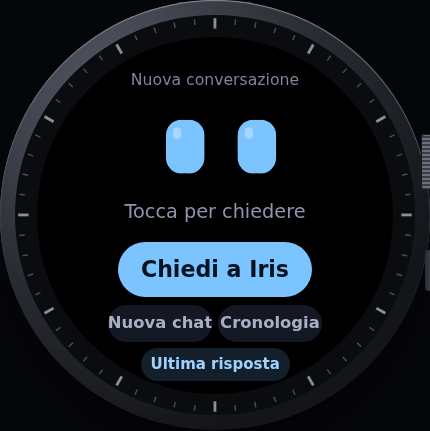
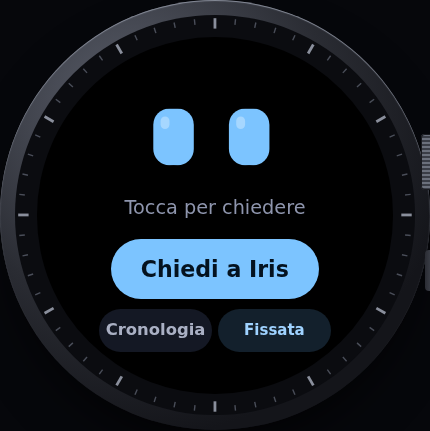
Prima schermata con tre tasti: Chiedi a Iris (chat nuova), Cronologia, chat fissata; demo, README e guida aggiornati
Claude-Session: https://claude.ai/code/session_01Nwax4AJoh9j8WWGX8eKyWD

diff --git a/design/prototipo.html b/design/prototipo.html
@@ -103,15 +103,14 @@ kbd{font:500 11px var(--mono);background:var(--raise);border:1px solid var(--lin
 .toast{position:absolute;bottom:22cqw;left:50%;transform:translateX(-50%);padding:2.4cqw 4.6cqw;border-radius:99cqw;background:#13202c;color:#9fd2ff;font:500 4.2cqw/1 var(--body);white-space:nowrap}
 @keyframes rise{from{transform:translateY(8cqw);opacity:0}}
 /* schermate della 0.1.2 (coordinate dell'app vera: 480 px = 100cqw) */
-.eyes.mid{top:29.6%;width:128cqw}
+.eyes.mid{top:27.5%;width:135cqw}
 .ttl{position:absolute;top:8.3cqw;left:22cqw;right:22cqw;height:7.5cqw;display:flex;align-items:center;justify-content:center;font:500 4.4cqw/1 var(--body);color:#7d849c;white-space:nowrap;overflow:hidden;text-overflow:ellipsis}
-.st{position:absolute;top:42.5cqw;left:12cqw;right:12cqw;height:13.3cqw;display:flex;align-items:center;justify-content:center;text-align:center;font:500 5.4cqw/1.25 var(--body);color:#8e95ad}
+.st{position:absolute;top:41.2cqw;left:12cqw;right:12cqw;height:13.3cqw;display:flex;align-items:center;justify-content:center;text-align:center;font:500 5.4cqw/1.25 var(--body);color:#8e95ad}
 .zb{position:absolute;border:0;border-radius:99cqw;cursor:pointer;font:600 4.6cqw/1.1 var(--body);background:#141824;color:#aab0c4;display:flex;align-items:center;justify-content:center;text-align:center;padding:0 2cqw;white-space:nowrap;overflow:hidden;text-overflow:ellipsis}
 .zb:active{filter:brightness(1.3)}
-.zb.big{left:22.9cqw;top:57.5cqw;width:54.2cqw;height:15.4cqw;background:var(--eye);color:#04121f;font-size:6.2cqw}
-.zb.l{left:20cqw;top:75cqw;width:29.2cqw;height:10.4cqw}
-.zb.r{left:50.8cqw;top:75cqw;width:29.2cqw;height:10.4cqw}
-.zb.pin{left:29.2cqw;top:87.1cqw;width:41.7cqw;height:9.2cqw;background:#13202c;color:#9fd2ff;font-size:4.2cqw}
+.zb.big{left:20.8cqw;top:56.7cqw;width:58.3cqw;height:16.7cqw;background:var(--eye);color:#04121f;font-size:6.2cqw}
+.zb.l{left:17.5cqw;top:76.2cqw;width:31.7cqw;height:12.1cqw}
+.zb.r{left:50.8cqw;top:76.2cqw;width:31.7cqw;height:12.1cqw;background:#13202c;color:#9fd2ff;font-size:4.2cqw}
 .kb{position:absolute;inset:0;background:#000;display:flex;flex-direction:column;align-items:center;justify-content:center;gap:4cqw}
 .kb .micb{width:24cqw;height:24cqw;border-radius:50%;background:#13263a;color:var(--eye);display:grid;place-items:center;animation:pulse 1.2s ease-in-out infinite}
 .kb .micb svg{width:11cqw;height:11cqw}
@@ -191,9 +190,9 @@ kbd{font:500 11px var(--mono);background:var(--raise);border:1px solid var(--lin
       <div class="card">
         <h3>Cosa provare (versione 0.1.2)</h3>
         <ol class="steps">
-          <li><b>Una domanda:</b> premi <b>Chiedi a Iris</b>, si apre la dettatura dell'orologio, poi ✓. Gli occhi mostrano cosa fa Iris; la risposta si legge con la corona, con gli occhi piccoli in alto.</li>
+          <li><b>Chiedi a Iris</b> apre una chat nuova con la dettatura dell'orologio, poi ✓. Gli occhi mostrano cosa fa Iris; la risposta si legge con la corona, con gli occhi piccoli in alto.</li>
           <li><b>Continua</b> (in fondo alla risposta) riapre la dettatura nella stessa conversazione; <b>Nuova chat</b> ne apre una nuova.</li>
-          <li><b>Cronologia:</b> tocca una conversazione per continuarla, oppure <b>Fissa</b> per metterla nel tasto in basso della prima schermata.</li>
+          <li><b>Cronologia:</b> tocca una conversazione per continuarla, oppure <b>Fissa</b> per metterla nel tasto accanto (una sola fissata).</li>
           <li>Scegli qui sotto la prossima domanda da "dettare".</li>
         </ol>
         <div class="btns" id="qs"></div>
@@ -1020,14 +1019,13 @@ kbd{font:500 11px var(--mono);background:var(--raise);border:1px solid var(--lin
     if (sideEyes && p !== "reply") sideEyes = null;
     if (p === "home") {
       showEyes(true, data && data.state || "idle");
-      ui.innerHTML = `<div class="ttl">${esc(curTitle)}</div><div class="st" id="st">${data && data.msg || "Tocca per chiedere"}</div>
-        <button class="zb big" id="ask">Chiedi a Iris</button><button class="zb l" id="new">Nuova chat</button><button class="zb r" id="hist">Cronologia</button>
-        <button class="zb pin" id="pin">${esc(short(pinned ? pinned : "Ultima risposta", 17))}</button>`;
+      ui.innerHTML = `<div class="st" id="st">${data && data.msg || "Tocca per chiedere"}</div>
+        <button class="zb big" id="ask">Chiedi a Iris</button><button class="zb l" id="hist">Cronologia</button>
+        <button class="zb r" id="pin">${esc(short(pinned ? pinned : "Fissata", 12))}</button>`;
       if (data && data.color) $("st").style.color = data.color;
-      btn("ask", dettatura);
-      btn("new", () => { curTitle = "Nuova conversazione"; trace("p", "nuova conversazione (si crea alla prima domanda)"); dettatura(); });
+      btn("ask", () => { curTitle = "Nuova conversazione"; trace("p", "chat nuova (si crea su Hermes alla prima domanda)"); dettatura(); });
       btn("hist", () => go("sessions"));
-      btn("pin", () => { if (pinned) { curTitle = pinned; trace("p", `riprendo la chat fissata «${pinned}»`); dettatura(); } else if (last) go("reply", { text: md(last.answer), q: last }); else { $("st").textContent = "Ancora nessuna risposta da rileggere"; } });
+      btn("pin", () => { if (pinned) { curTitle = pinned; trace("p", `riprendo la chat fissata «${pinned}»`); dettatura(); } else { $("st").textContent = "Nessuna chat fissata: scegline una in Cronologia → Fissa"; } });
     }
     if (p === "kb") {
       showEyes(false);
@@ -1036,8 +1034,8 @@ kbd{font:500 11px var(--mono);background:var(--raise);border:1px solid var(--lin
       later(900, function type() { if (page !== "kb") return; n = Math.min(q.length, n + 2); $("said").textContent = q.slice(0, n); if (n < q.length) later(45, type); else { $("hk").textContent = "Tocca ✓ per inviare"; $("okk").style.visibility = "visible"; } });
       btn("okk", () => { cur = Object.assign({}, QS[qi]); trace("w", `dettatura: «${cur.q}»`); ask(); });
     }
-    if (p === "think") { showEyes(true, "thinking"); ui.innerHTML = `<div class="ttl">${esc(curTitle)}</div><div class="st" style="color:#a78bfa">Sto pensando…</div>`; }
-    if (p === "tool") { showEyes(true, "tool"); ui.innerHTML = `<div class="ttl">${esc(curTitle)}</div><div class="st" style="color:#f59e0b">Uso: ${esc(cur.tool)}</div>`; }
+    if (p === "think") { showEyes(true, "thinking"); ui.innerHTML = `<div class="st" style="color:#a78bfa">Sto pensando…</div>`; }
+    if (p === "tool") { showEyes(true, "tool"); ui.innerHTML = `<div class="st" style="color:#f59e0b">Uso: ${esc(cur.tool)}</div>`; }
     if (p === "reply") {
       showEyes(false);
       const q = (data && data.q) || cur;
@@ -1063,7 +1061,7 @@ kbd{font:500 11px var(--mono);background:var(--raise);border:1px solid var(--lin
       ui.querySelectorAll("[data-f]").forEach((b) => (b.onclick = (e) => { e.stopPropagation(); const s = all[+b.dataset.f]; pinned = pinned === s.title ? null : s.title; trace("p", pinned ? `fissata «${s.title}» nella prima schermata` : "tolta la chat fissata"); const y = scrollY; go("sessions"); scrollY = y; $("txt").style.transform = `translateY(${-scrollY}px)`; }));
       scrollY = 0;
     }
-    if (p === "error") { showEyes(true, "sleep"); ui.innerHTML = `<div class="ttl">${esc(curTitle)}</div><div class="st" style="color:#f87171">Prova: la rete non risponde. Il tunnel di casa è acceso?</div><button class="zb big" id="ask">Chiedi a Iris</button>`; btn("ask", dettatura); }
+    if (p === "error") { showEyes(true, "sleep"); ui.innerHTML = `<div class="st" style="color:#f87171">Prova: la rete non risponde. Il tunnel di casa è acceso?</div><button class="zb big" id="ask">Chiedi a Iris</button>`; btn("ask", () => { curTitle = "Nuova conversazione"; dettatura(); }); }
   }
   function dettatura() { clear(); trace("w", "si apre la tastiera di sistema con il microfono"); go("kb"); }
 

diff --git a/design/prototipo-src.html b/design/prototipo-src.html
@@ -103,15 +103,14 @@ kbd{font:500 11px var(--mono);background:var(--raise);border:1px solid var(--lin
 .toast{position:absolute;bottom:22cqw;left:50%;transform:translateX(-50%);padding:2.4cqw 4.6cqw;border-radius:99cqw;background:#13202c;color:#9fd2ff;font:500 4.2cqw/1 var(--body);white-space:nowrap}
 @keyframes rise{from{transform:translateY(8cqw);opacity:0}}
 /* schermate della 0.1.2 (coordinate dell'app vera: 480 px = 100cqw) */
-.eyes.mid{top:29.6%;width:128cqw}
+.eyes.mid{top:27.5%;width:135cqw}
 .ttl{position:absolute;top:8.3cqw;left:22cqw;right:22cqw;height:7.5cqw;display:flex;align-items:center;justify-content:center;font:500 4.4cqw/1 var(--body);color:#7d849c;white-space:nowrap;overflow:hidden;text-overflow:ellipsis}
-.st{position:absolute;top:42.5cqw;left:12cqw;right:12cqw;height:13.3cqw;display:flex;align-items:center;justify-content:center;text-align:center;font:500 5.4cqw/1.25 var(--body);color:#8e95ad}
+.st{position:absolute;top:41.2cqw;left:12cqw;right:12cqw;height:13.3cqw;display:flex;align-items:center;justify-content:center;text-align:center;font:500 5.4cqw/1.25 var(--body);color:#8e95ad}
 .zb{position:absolute;border:0;border-radius:99cqw;cursor:pointer;font:600 4.6cqw/1.1 var(--body);background:#141824;color:#aab0c4;display:flex;align-items:center;justify-content:center;text-align:center;padding:0 2cqw;white-space:nowrap;overflow:hidden;text-overflow:ellipsis}
 .zb:active{filter:brightness(1.3)}
-.zb.big{left:22.9cqw;top:57.5cqw;width:54.2cqw;height:15.4cqw;background:var(--eye);color:#04121f;font-size:6.2cqw}
-.zb.l{left:20cqw;top:75cqw;width:29.2cqw;height:10.4cqw}
-.zb.r{left:50.8cqw;top:75cqw;width:29.2cqw;height:10.4cqw}
-.zb.pin{left:29.2cqw;top:87.1cqw;width:41.7cqw;height:9.2cqw;background:#13202c;color:#9fd2ff;font-size:4.2cqw}
+.zb.big{left:20.8cqw;top:56.7cqw;width:58.3cqw;height:16.7cqw;background:var(--eye);color:#04121f;font-size:6.2cqw}
+.zb.l{left:17.5cqw;top:76.2cqw;width:31.7cqw;height:12.1cqw}
+.zb.r{left:50.8cqw;top:76.2cqw;width:31.7cqw;height:12.1cqw;background:#13202c;color:#9fd2ff;font-size:4.2cqw}
 .kb{position:absolute;inset:0;background:#000;display:flex;flex-direction:column;align-items:center;justify-content:center;gap:4cqw}
 .kb .micb{width:24cqw;height:24cqw;border-radius:50%;background:#13263a;color:var(--eye);display:grid;place-items:center;animation:pulse 1.2s ease-in-out infinite}
 .kb .micb svg{width:11cqw;height:11cqw}
@@ -191,9 +190,9 @@ kbd{font:500 11px var(--mono);background:var(--raise);border:1px solid var(--lin
       <div class="card">
         <h3>Cosa provare (versione 0.1.2)</h3>
         <ol class="steps">
-          <li><b>Una domanda:</b> premi <b>Chiedi a Iris</b>, si apre la dettatura dell'orologio, poi ✓. Gli occhi mostrano cosa fa Iris; la risposta si legge con la corona, con gli occhi piccoli in alto.</li>
+          <li><b>Chiedi a Iris</b> apre una chat nuova con la dettatura dell'orologio, poi ✓. Gli occhi mostrano cosa fa Iris; la risposta si legge con la corona, con gli occhi piccoli in alto.</li>
           <li><b>Continua</b> (in fondo alla risposta) riapre la dettatura nella stessa conversazione; <b>Nuova chat</b> ne apre una nuova.</li>
-          <li><b>Cronologia:</b> tocca una conversazione per continuarla, oppure <b>Fissa</b> per metterla nel tasto in basso della prima schermata.</li>
+          <li><b>Cronologia:</b> tocca una conversazione per continuarla, oppure <b>Fissa</b> per metterla nel tasto accanto (una sola fissata).</li>
           <li>Scegli qui sotto la prossima domanda da "dettare".</li>
         </ol>
         <div class="btns" id="qs"></div>
@@ -271,14 +270,13 @@ kbd{font:500 11px var(--mono);background:var(--raise);border:1px solid var(--lin
     if (sideEyes && p !== "reply") sideEyes = null;
     if (p === "home") {
       showEyes(true, data && data.state || "idle");
-      ui.innerHTML = `<div class="ttl">${esc(curTitle)}</div><div class="st" id="st">${data && data.msg || "Tocca per chiedere"}</div>
-        <button class="zb big" id="ask">Chiedi a Iris</button><button class="zb l" id="new">Nuova chat</button><button class="zb r" id="hist">Cronologia</button>
-        <button class="zb pin" id="pin">${esc(short(pinned ? pinned : "Ultima risposta", 17))}</button>`;
+      ui.innerHTML = `<div class="st" id="st">${data && data.msg || "Tocca per chiedere"}</div>
+        <button class="zb big" id="ask">Chiedi a Iris</button><button class="zb l" id="hist">Cronologia</button>
+        <button class="zb r" id="pin">${esc(short(pinned ? pinned : "Fissata", 12))}</button>`;
       if (data && data.color) $("st").style.color = data.color;
-      btn("ask", dettatura);
-      btn("new", () => { curTitle = "Nuova conversazione"; trace("p", "nuova conversazione (si crea alla prima domanda)"); dettatura(); });
+      btn("ask", () => { curTitle = "Nuova conversazione"; trace("p", "chat nuova (si crea su Hermes alla prima domanda)"); dettatura(); });
       btn("hist", () => go("sessions"));
-      btn("pin", () => { if (pinned) { curTitle = pinned; trace("p", `riprendo la chat fissata «${pinned}»`); dettatura(); } else if (last) go("reply", { text: md(last.answer), q: last }); else { $("st").textContent = "Ancora nessuna risposta da rileggere"; } });
+      btn("pin", () => { if (pinned) { curTitle = pinned; trace("p", `riprendo la chat fissata «${pinned}»`); dettatura(); } else { $("st").textContent = "Nessuna chat fissata: scegline una in Cronologia → Fissa"; } });
     }
     if (p === "kb") {
       showEyes(false);
@@ -287,8 +285,8 @@ kbd{font:500 11px var(--mono);background:var(--raise);border:1px solid var(--lin
       later(900, function type() { if (page !== "kb") return; n = Math.min(q.length, n + 2); $("said").textContent = q.slice(0, n); if (n < q.length) later(45, type); else { $("hk").textContent = "Tocca ✓ per inviare"; $("okk").style.visibility = "visible"; } });
       btn("okk", () => { cur = Object.assign({}, QS[qi]); trace("w", `dettatura: «${cur.q}»`); ask(); });
     }
-    if (p === "think") { showEyes(true, "thinking"); ui.innerHTML = `<div class="ttl">${esc(curTitle)}</div><div class="st" style="color:#a78bfa">Sto pensando…</div>`; }
-    if (p === "tool") { showEyes(true, "tool"); ui.innerHTML = `<div class="ttl">${esc(curTitle)}</div><div class="st" style="color:#f59e0b">Uso: ${esc(cur.tool)}</div>`; }
+    if (p === "think") { showEyes(true, "thinking"); ui.innerHTML = `<div class="st" style="color:#a78bfa">Sto pensando…</div>`; }
+    if (p === "tool") { showEyes(true, "tool"); ui.innerHTML = `<div class="st" style="color:#f59e0b">Uso: ${esc(cur.tool)}</div>`; }
     if (p === "reply") {
       showEyes(false);
       const q = (data && data.q) || cur;
@@ -314,7 +312,7 @@ kbd{font:500 11px var(--mono);background:var(--raise);border:1px solid var(--lin
       ui.querySelectorAll("[data-f]").forEach((b) => (b.onclick = (e) => { e.stopPropagation(); const s = all[+b.dataset.f]; pinned = pinned === s.title ? null : s.title; trace("p", pinned ? `fissata «${s.title}» nella prima schermata` : "tolta la chat fissata"); const y = scrollY; go("sessions"); scrollY = y; $("txt").style.transform = `translateY(${-scrollY}px)`; }));
       scrollY = 0;
     }
-    if (p === "error") { showEyes(true, "sleep"); ui.innerHTML = `<div class="ttl">${esc(curTitle)}</div><div class="st" style="color:#f87171">Prova: la rete non risponde. Il tunnel di casa è acceso?</div><button class="zb big" id="ask">Chiedi a Iris</button>`; btn("ask", dettatura); }
+    if (p === "error") { showEyes(true, "sleep"); ui.innerHTML = `<div class="st" style="color:#f87171">Prova: la rete non risponde. Il tunnel di casa è acceso?</div><button class="zb big" id="ask">Chiedi a Iris</button>`; btn("ask", () => { curTitle = "Nuova conversazione"; dettatura(); }); }
   }
   function dettatura() { clear(); trace("w", "si apre la tastiera di sistema con il microfono"); go("kb"); }
 

diff --git a/page/index.page.js b/page/index.page.js
@@ -1,5 +1,8 @@
-// Pagina principale: la conversazione in corso in alto, gli occhi, cosa sta facendo Iris e il pulsante per
-// fare una domanda (dettata o scritta con la tastiera di sistema). Sotto: le conversazioni e l'ultima risposta.
+// Pagina principale: gli occhi, cosa sta facendo Iris e tre tasti:
+//   Chiedi a Iris  → chat nuova, con la tastiera di sistema (dettatura o lettere)
+//   Cronologia     → le ultime conversazioni, per continuarne una
+//   chat fissata   → la conversazione fissata dalla cronologia, per riprenderla al volo
+// Per continuare la chat appena fatta c'è "Continua" in fondo alla risposta.
 import * as hmUI from '@zos/ui'
 import { px } from '@zos/utils'
 import { push } from '@zos/router'
@@ -19,74 +22,65 @@ Page(
       this.state.apri = params === 'tastiera'
     },
 
+
     build() {
       setWakeUpRelaunch({ relaunch: true }) // a schermo riacceso si torna qui, non sul quadrante
-      this.state.titolo = hmUI.createWidget(hmUI.widget.TEXT, {
-        x: px(110), y: px(40), w: px(260), h: px(36), text: '', text_size: px(21), color: 0x7d849c,
-        align_h: hmUI.align.CENTER_H, align_v: hmUI.align.CENTER_V, text_style: hmUI.text_style.ELLIPSIS,
-      })
-      this.state.occhi = creaOcchi({ cx: C, cy: px(142), scala: 0.85 })
+      this.state.occhi = creaOcchi({ cx: C, cy: px(132), scala: 0.9 })
       this.state.testo = hmUI.createWidget(hmUI.widget.TEXT, {
-        x: px(60), y: px(204), w: px(360), h: px(64),
+        x: px(60), y: px(198), w: px(360), h: px(64),
         text: 'Tocca per chiedere', text_size: px(26), color: 0x8e95ad,
         align_h: hmUI.align.CENTER_H, align_v: hmUI.align.CENTER_V, text_style: hmUI.text_style.WRAP,
       })
       hmUI.createWidget(hmUI.widget.BUTTON, {
-        x: px(110), y: px(276), w: px(260), h: px(74), radius: px(37),
+        x: px(100), y: px(272), w: px(280), h: px(80), radius: px(40),
         normal_color: 0x7cc4ff, press_color: 0x5aa6e6, color: 0x04121f, text_size: px(30),
-        text: 'Chiedi a Iris', click_func: () => this.chiedi(),
+        text: 'Chiedi a Iris', click_func: () => this.nuovaChat(),
       })
       hmUI.createWidget(hmUI.widget.BUTTON, {
-        x: px(96), y: px(360), w: px(140), h: px(50), radius: px(25),
-        normal_color: 0x141824, press_color: 0x1f2433, color: 0xaab0c4, text_size: px(22),
-        text: 'Nuova chat', click_func: () => this.nuovaChat(),
-      })
-      hmUI.createWidget(hmUI.widget.BUTTON, {
-        x: px(244), y: px(360), w: px(140), h: px(50), radius: px(25),
+        x: px(84), y: px(366), w: px(152), h: px(58), radius: px(29),
         normal_color: 0x141824, press_color: 0x1f2433, color: 0xaab0c4, text_size: px(22),
         text: 'Cronologia', click_func: () => !this.state.busy && push({ url: 'page/sessioni.page' }),
       })
-      // la chat fissata (dalla cronologia) per riprenderla al volo; se non ce n'è una, l'ultima risposta
       this.state.fissa = hmUI.createWidget(hmUI.widget.BUTTON, {
-        x: px(140), y: px(418), w: px(200), h: px(44), radius: px(22),
+        x: px(244), y: px(366), w: px(152), h: px(58), radius: px(29),
         normal_color: 0x13202c, press_color: 0x1b3550, color: 0x9fd2ff, text_size: px(20),
-        text: 'Ultima risposta', click_func: () => this.tastoFissato(),
+        text: 'Fissata', click_func: () => this.tastoFissato(),
       })
       this.aggiornaTitolo()
-      if (this.state.apri) setTimeout(() => this.chiedi(), 300)
+      if (this.state.apri) setTimeout(() => this.tastiera(), 300)
     },
 
     // tornando qui da un'altra pagina: titolo aggiornato, e se si è scelto "Continua" / "Nuova chat" si riapre la tastiera
     onResume() {
       const g = dati()
-      if (g.nuovaChat) { g.nuovaChat = false; this.request({ method: 'new' }).finally(() => { this.aggiornaTitolo(); this.chiedi() }); return }
       this.aggiornaTitolo()
-      if (g.continua) { g.continua = false; setTimeout(() => this.chiedi(), 300) }
+      if (g.nuovaChat) { g.nuovaChat = false; this.nuovaChat() }
+      else if (g.continua) { g.continua = false; setTimeout(() => this.tastiera(), 300) }
     },
 
     aggiornaTitolo() {
       this.request({ method: 'current' }, { timeout: 20000 })
         .then((c) => {
-          if (!this.state.titolo) return
-          this.state.titolo.setProperty(hmUI.prop.MORE, { text: (c && c.title) || '' })
+          if (!this.state.fissa) return
           this.state.pin = (c && c.pinned) || null
-          const t = this.state.pin ? this.state.pin.title : 'Ultima risposta'
-          this.state.fissa.setProperty(hmUI.prop.MORE, { text: t.length > 16 ? t.slice(0, 15) + '…' : t })
+          const t = this.state.pin ? this.state.pin.title : 'Fissata'
+          this.state.fissa.setProperty(hmUI.prop.MORE, { text: t.length > 12 ? t.slice(0, 11) + '…' : t })
         })
         .catch(() => {})
     },
 
+    // Chiedi a Iris: conversazione nuova (si crea su Hermes alla prima domanda) e tastiera
     nuovaChat() {
       if (this.state.busy) return
-      this.request({ method: 'new' }).finally(() => { this.aggiornaTitolo(); this.chiedi() })
+      this.request({ method: 'new' }).finally(() => this.tastiera())
     },
 
     // la chat fissata: ci si sposta lì e si apre subito la tastiera
     tastoFissato() {
       if (this.state.busy) return
       const p = this.state.pin
-      if (!p) return this.ultima()
-      this.request({ method: 'use', params: { id: p.id } }).finally(() => { this.aggiornaTitolo(); this.chiedi() })
+      if (!p) return this.scrivi('Nessuna chat fissata: scegline una in Cronologia → Fissa')
+      this.request({ method: 'use', params: { id: p.id } }).finally(() => this.tastiera())
     },
 
     scrivi(t, colore = 0x8e95ad) {
@@ -101,7 +95,8 @@ Page(
       else if (p.stato === 'pensa') { this.state.occhi.stato('pensa'); this.scrivi('Sto pensando…', 0xa78bfa) }
     },
 
-    chiedi() {
+    // la tastiera di sistema: dettatura se c'è, altrimenti lettere; la domanda va nella conversazione in corso
+    tastiera() {
       if (this.state.busy) return
       const tastiera = hmUI.inputType && typeof hmUI.createKeyboard === 'function'
       if (!tastiera) return this.scrivi('Su questo orologio non c\'è la tastiera di sistema', 0xf87171)
@@ -137,12 +132,6 @@ Page(
           }, 900)
         })
         .catch(() => { this.fine(); this.errore('Il telefono non risponde. L\'app Zepp è aperta e vicina?') })
-    },
-
-    ultima() {
-      const u = dati().last
-      if (u) push({ url: 'page/risposta.page', params: JSON.stringify(u) })
-      else this.scrivi('Ancora nessuna risposta da rileggere')
     },
 
     errore(t) {

diff --git a/README.md b/README.md
@@ -13,10 +13,10 @@ Progetto gemello di [Iris Notch](https://github.com/Mark9712Seto/IrisNotch), l'i
 
 | | Sull'orologio |
 |---|---|
-| ![](docs/immagini/2-dettatura.png) | Premi **Chiedi a Iris** e detti: *«Che impegni ho domani mattina?»*, poi ✓. |
+| ![](docs/immagini/2-dettatura.png) | Premi **Chiedi a Iris** (chat nuova) e detti: *«Che impegni ho domani mattina?»*, poi ✓. |
 | ![](docs/immagini/3-strumento.png) | Gli occhi diventano arancioni e sotto compare lo strumento che Iris sta usando: *calendario*. |
 | ![](docs/immagini/4-risposta.png) | L'orologio vibra e mostra la risposta: *«Domani mattina hai due impegni: alle 9:30 il dentista, e alle 11 la call con Luca per il preventivo…»*. Si legge girando la corona; in fondo **Continua** e **Nuova chat**. |
-| ![](docs/immagini/5-cronologia.png) | **Cronologia**: le ultime conversazioni di Hermes, anche quelle iniziate su Telegram o sul PC. Toccane una per continuarla, oppure **Fissa** per averla sempre nella prima schermata. |
+| ![](docs/immagini/5-cronologia.png) | **Cronologia**: le ultime conversazioni di Hermes, anche quelle iniziate su Telegram o sul PC. Toccane una per continuarla, oppure **Fissa** per averla nel tasto accanto a *Cronologia*. |
 
 Le risposte vere le scrive il tuo Hermes Agent, con i suoi strumenti (calendario, posta, casa…).
 
@@ -24,7 +24,7 @@ Le risposte vere le scrive il tuo Hermes Agent, con i suoi strumenti (calendario
 
 - Gli occhi di Iris, che sbattono le palpebre e cambiano colore mentre pensa.
 - **Chiedi a Iris:** detti la domanda con la tastiera vocale dell'orologio o la scrivi.
-- **Conversazioni:** nuova chat, cronologia (anche quelle di Telegram e dell'isola) e una chat fissata nella prima schermata per riprenderla al volo.
+- **Tre tasti:** *Chiedi a Iris* (chat nuova), *Cronologia* (anche le conversazioni di Telegram e dell'isola) e la *chat fissata*, per riprenderla al volo. In fondo a ogni risposta, *Continua* resta nella stessa conversazione.
 - **Occhi animati** che seguono il lavoro di Iris: pensa, usa uno strumento (col nome), risponde, errore.
 - Lo schermo resta acceso finché arriva la risposta, che si legge scorrendo con la corona.
 - **Prova collegamento** dall'orologio e dalle impostazioni nell'app Zepp, con errori spiegati (token Cloudflare, chiave di Hermes, Hermes da aggiornare).

diff --git a/docs/installazione.md b/docs/installazione.md
@@ -51,11 +51,9 @@ Apri **Iris Dial** e premi **Chiedi a Iris**: detta (col microfono della tastier
 
 | Sulla prima schermata | |
 |---|---|
-| in alto | il titolo della conversazione in corso |
-| **Chiedi a Iris** | una domanda nella conversazione in corso |
-| **Nuova chat** | apre una conversazione nuova e la tastiera |
-| **Cronologia** | le ultime conversazioni di Hermes (anche di Telegram e dell'isola): toccandone una si continua lì; **Fissa** la mette nella prima schermata |
-| tasto in basso | la conversazione fissata, per riprenderla al volo (se non ce n'è una: l'ultima risposta) |
+| **Chiedi a Iris** | apre una chat nuova e la tastiera (dettatura o lettere) |
+| **Cronologia** | le ultime conversazioni di Hermes (anche di Telegram e dell'isola): toccandone una si continua lì; **Fissa** la mette nel tasto accanto |
+| tasto **fissata** | la conversazione fissata (una sola), per riprenderla al volo |
 
 Nella risposta: si scorre con la corona; in fondo **Continua** (stessa conversazione) e **Nuova chat**.
 
